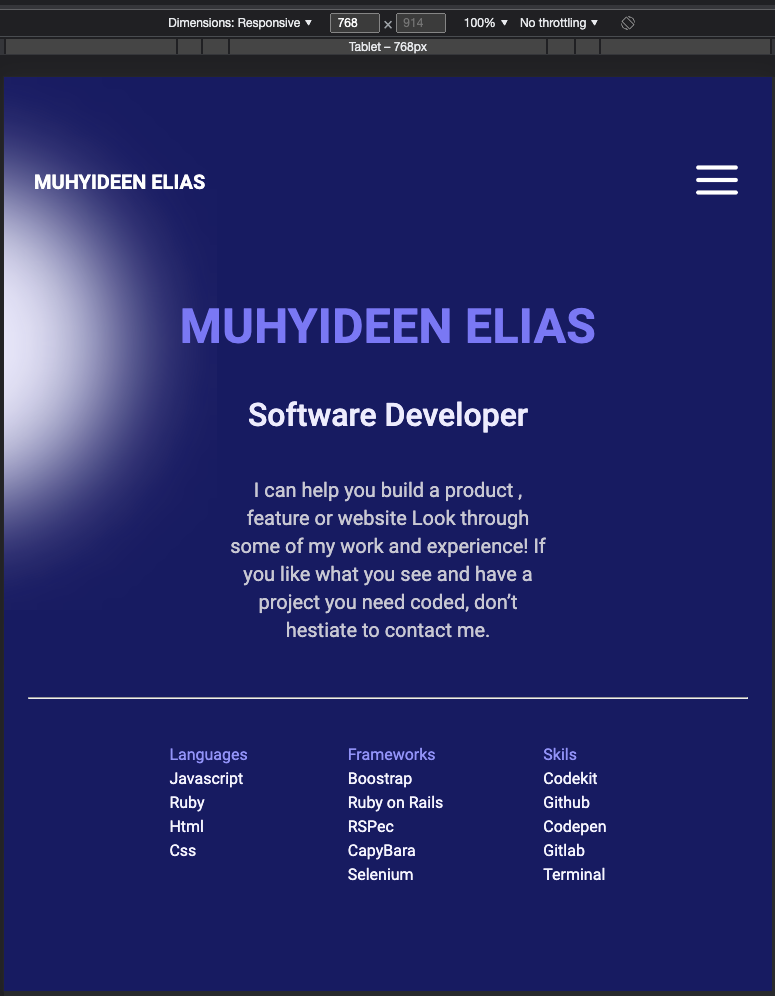
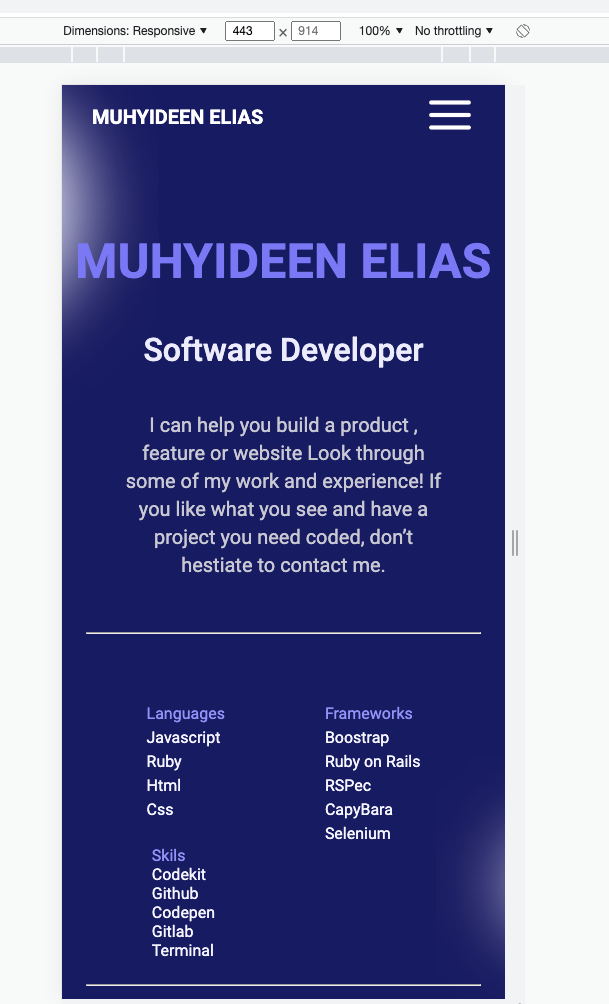
update README.md file and add screenshot of project

diff --git a/index.html b/index.html
@@ -1,73 +1,75 @@
 <!DOCTYPE html>
 <html lang="en">
-  <head>
-    <meta charset="UTF-8" />
-    <meta http-equiv="X-UA-Compatible" content="IE=edge" />
-    <meta name="viewport" content="width=device-width, initial-scale=1.0" />
-    <link rel="stylesheet" href="css/style.css" />
-    <link rel="preconnect" href="https://fonts.googleapis.com" />
-    <link rel="preconnect" href="https://fonts.gstatic.com" crossorigin />
-    <link
-      href="https://fonts.googleapis.com/css2?family=Roboto:ital,wght@0,100;0,300;0,400;0,500;0,700;0,900;1,100;1,300;1,400;1,500;1,700;1,900&display=swap"
-      rel="stylesheet" />
-    <title>Portfolio</title>
-  </head>
 
-  <body>
-    <header>
-      <a href="#">
-        <h1>MUHYIDEEN ELIAS</h1>
-      </a>
-      <nav>
-        <img src="./images/menu.svg" alt="menu-icon" />
-      </nav>
-    </header>
-    <section>
+<head>
+  <meta charset="UTF-8" />
+  <meta http-equiv="X-UA-Compatible" content="IE=edge" />
+  <meta name="viewport" content="width=device-width, initial-scale=1.0" />
+  <link rel="stylesheet" href="css/style.css" />
+  <link rel="preconnect" href="https://fonts.googleapis.com" />
+  <link rel="preconnect" href="https://fonts.gstatic.com" crossorigin />
+  <link
+    href="https://fonts.googleapis.com/css2?family=Roboto:ital,wght@0,100;0,300;0,400;0,500;0,700;0,900;1,100;1,300;1,400;1,500;1,700;1,900&display=swap"
+    rel="stylesheet" />
+  <title>Portfolio</title>
+</head>
+
+<body>
+  <header>
+    <a href="#">
       <h1>MUHYIDEEN ELIAS</h1>
-      <span>Software Developer</span>
-      <p>
-        I can help you build a product ,<br />
-        feature or website Look through<br />
-        some of my work and experience! If <br />
-        you like what you see and have a<br />
-        project you need coded, don’t <br />
-        hestiate to contact me.
-      </p>
-      <div class="breakage">
-        <hr>
-      </div>
-    </section>
-    <section class="tech-stack">
-      <div class="skillset-1">
-        <ul class="languages">
-          <li id="languages-header">Languages</li>
-          <li>Javascript</li>
-          <li>Ruby</li>
-          <li>Html</li>
-          <li>Css</li>
-        </ul>
-        <ul class="framework">
-          <li id="frameworks-header">Frameworks</li>
-          <li>Boostrap</li>
-          <li>Ruby on Rails</li>
-          <li>RSPec</li>
-          <li>CapyBara</li>
-          <li>Selenium</li>
-        </ul>
-      </div>
-      <div class="skillset-2">
-        <ul class="skill">
-          <li id="skill-header">Skils</li>
-          <li>Codekit</li>
-          <li>Github</li>
-          <li>Codepen</li>
-          <li>Gitlab</li>
-          <li>Terminal</li>
-        </ul>
-      </div>
-      <div class="breakage">
-        <hr>
-      </div>
-    </section>
-  </body>
+    </a>
+    <nav>
+      <img src="./images/menu.svg" alt="menu-icon" />
+    </nav>
+  </header>
+  <section>
+    <h1>MUHYIDEEN ELIAS</h1>
+    <span>Software Developer</span>
+    <p>
+      I can help you build a product ,<br />
+      feature or website Look through<br />
+      some of my work and experience! If <br />
+      you like what you see and have a<br />
+      project you need coded, don’t <br />
+      hestiate to contact me.
+    </p>
+    <div class="breakage">
+      <hr>
+    </div>
+  </section>
+  <section class="tech-stack">
+    <div class="skillset-1">
+      <ul class="languages">
+        <li id="languages-header">Languages</li>
+        <li>Javascript</li>
+        <li>Ruby</li>
+        <li>Html</li>
+        <li>Css</li>
+      </ul>
+      <ul class="framework">
+        <li id="frameworks-header">Frameworks</li>
+        <li>Boostrap</li>
+        <li>Ruby on Rails</li>
+        <li>RSPec</li>
+        <li>CapyBara</li>
+        <li>Selenium</li>
+      </ul>
+    </div>
+    <div class="skillset-2">
+      <ul class="skill">
+        <li id="skill-header">Skils</li>
+        <li>Codekit</li>
+        <li>Github</li>
+        <li>Codepen</li>
+        <li>Gitlab</li>
+        <li>Terminal</li>
+      </ul>
+    </div>
+    <div class="breakage">
+      <hr>
+    </div>
+  </section>
+</body>
+
 </html>

diff --git a/README.md b/README.md
@@ -1,8 +1,9 @@
 ![](https://img.shields.io/badge/Microverse-blueviolet)
 
-# Hello World
+# Portfolio
 
->This is my first project on my second day at Microverse and the goal for this project is to master all of the tools and best practices I have learned about in previous excercises. 
+> Portfolio is one of the most powerful tools in software developer toolbox. it is an easy way of showing what you are truly capable of as a developer, and a quick way for for recruiters to and hiring managers to get an idea of what you can bring to their team
+
 
 ## Built With
 
@@ -20,7 +21,7 @@
 git clone https://github.com/Fourteen98/My-Portfolio.git
 ```
 #### - Open project directory and open index.html file with your prefered browser
-####  - Expect the page below when the browser loads
+####  - screenshot based on 443px screen size per specification giving in project.
 ![Screenshot](screenshot.png)
 ## Authors
 
